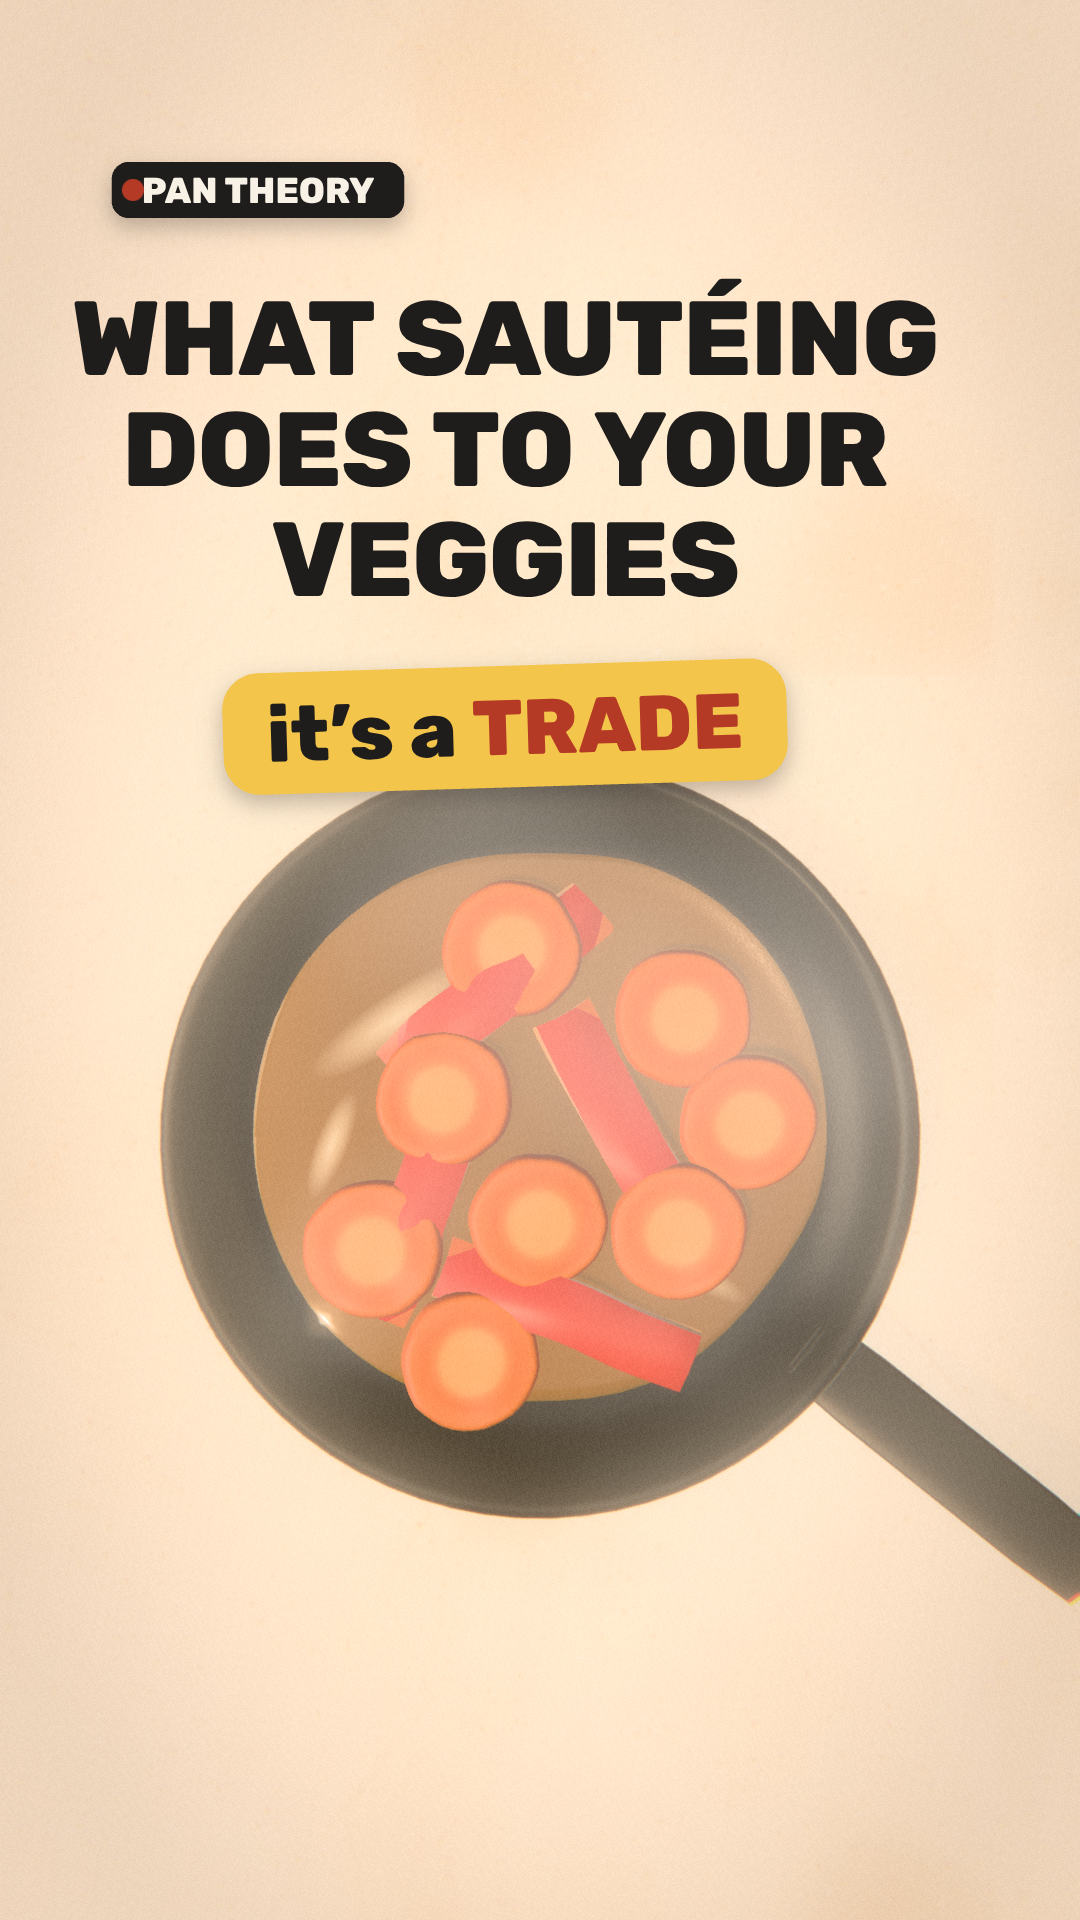
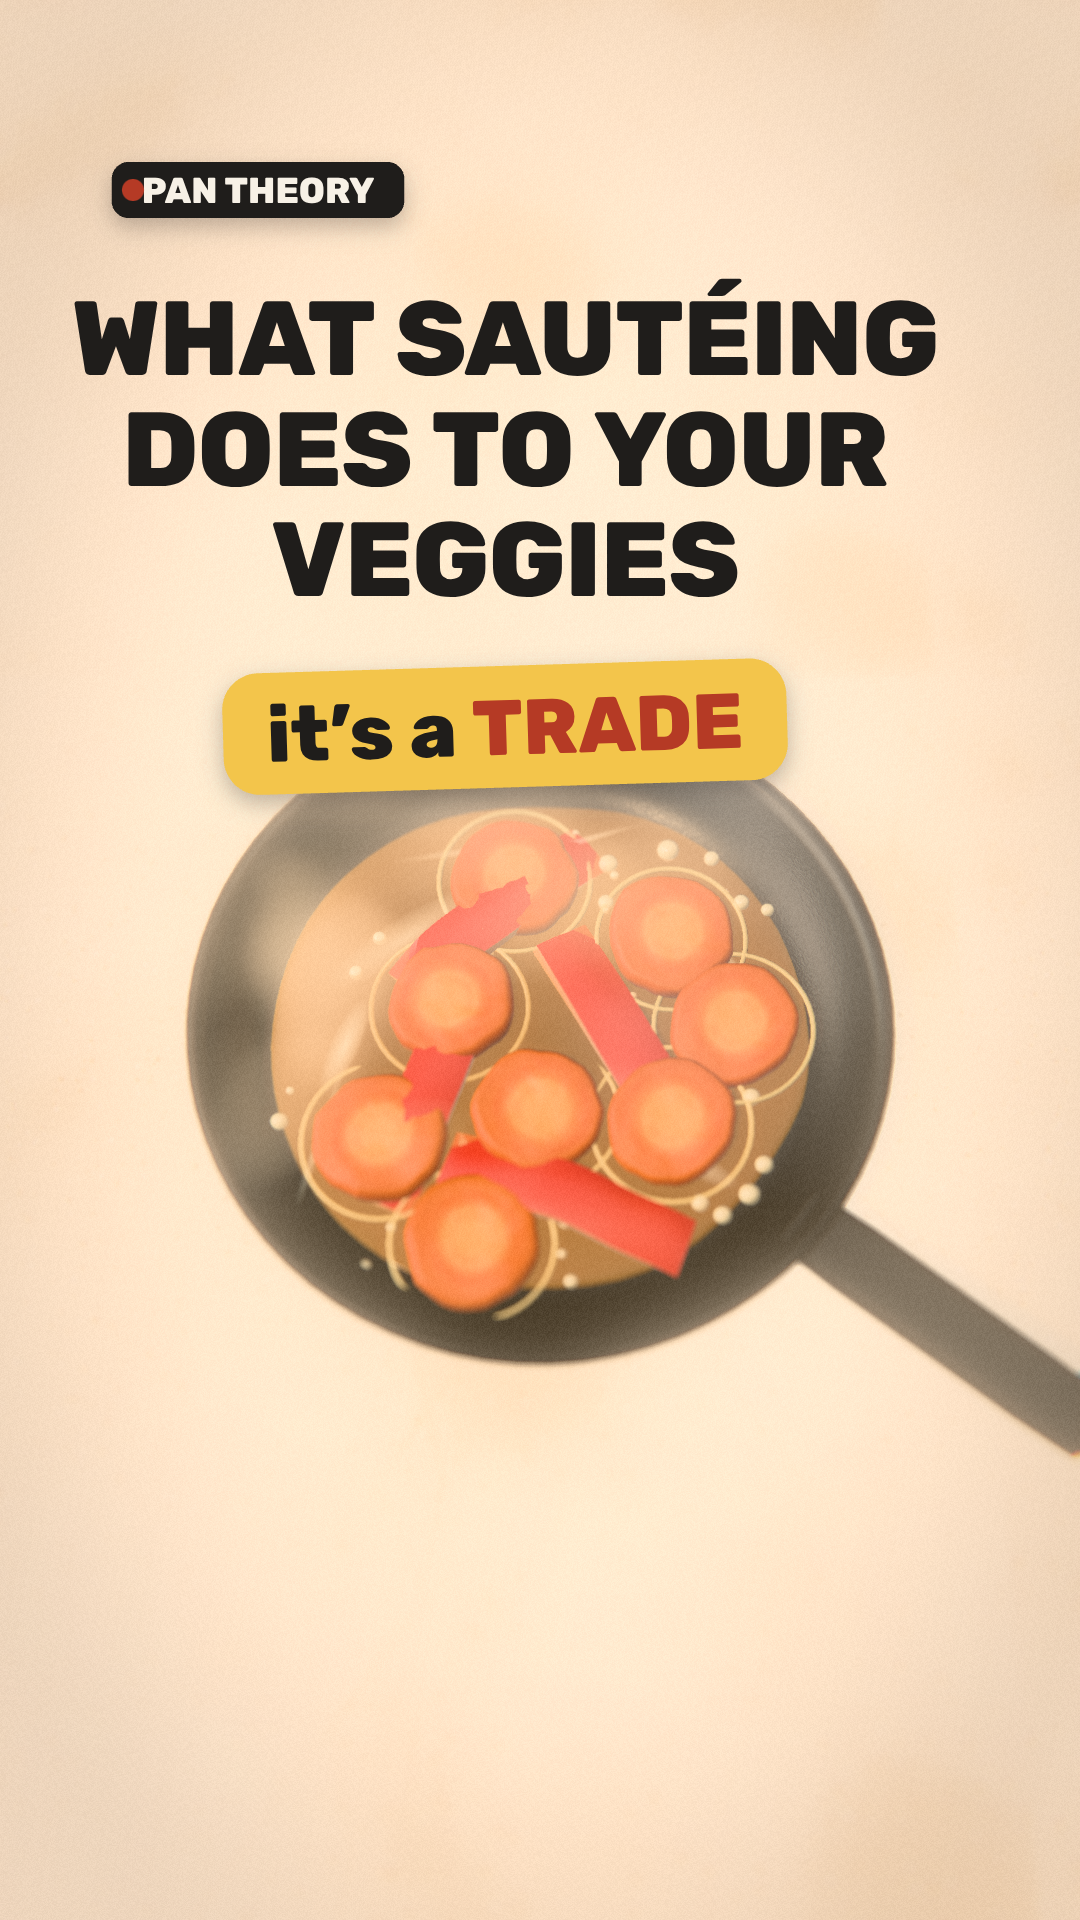
Pan Theory ep01: richer food (coin rings/fibre/caramel, oil film rings + bubbles, seasoned cast iron, tilted hook/cover camera)
Claude-Session: https://claude.ai/code/session_01NX6jW17pPmMZCgXgFXca4U

Changed region(s): [[0.1222, 0.4062, 1.0, 0.8438]]

diff --git a/channels/pan-theory/ep01-sauteing-veggies/scene.js b/channels/pan-theory/ep01-sauteing-veggies/scene.js
@@ -56,6 +56,10 @@ const FL = .095;
 const panCoins = [[-.42, -.15], [.62, -.5], [.6, .42], [-.72, .5], [.0, .38], [-.12, -.8], [.9, -.05], [-.3, .98]].map((p, i) => { const o = mesh(coinGeos[i % 4], i ? coinMat : coinMat, GK, p[0], FL + .085 + (i ? .0 : .0), p[1], (hash(i) - .5) * .18, hash(i * 3) * 6.28, (hash(i * 5) - .5) * .18); o.userData.rest = o.position.clone(); return o; });
 panCoins[0].position.y += .0; panCoins[0].userData.rest.copy(panCoins[0].position);
 const panStrips = [[.38, -.02, .5], [-.5, .28, -.4], [.12, .78, 1.2], [-.2, -.62, 2.3]].map((p, i) => { const o = mesh(stripGeos[i], stripMat, GK, p[0], FL + .1, p[1], 0, p[2], 0); o.userData.rest = o.position.clone(); return o; });
+const ringMat = new THREE.MeshPhysicalMaterial({ color: "#FFE3A0", roughness: .04, metalness: 0, transparent: true, opacity: 0, clearcoat: 1, envMapIntensity: 3 }), bubGeo = new THREE.SphereGeometry(.03, 12, 8), bubMat = new THREE.MeshPhysicalMaterial({ color: "#FFF3D0", roughness: .03, transparent: true, opacity: .0, clearcoat: 1, envMapIntensity: 3.5 });
+const filmAll = [], bubs = [];
+panCoins.forEach((c, i) => { const r = new THREE.Mesh(new THREE.TorusGeometry(.35, .012, 8, 44), ringMat); r.rotation.x = PI / 2; r.position.set(c.position.x, FL + .05, c.position.z); r.scale.set(1 + .06 * hash(i), 1 + .06 * hash(i * 3), 1); GK.add(r); filmAll.push(r);
+  for (let k = 0; k < 6; k++) { const a = hash(i * 7 + k) * 6.28, rad = .38 + .12 * hash(i + k * 3), b = new THREE.Mesh(bubGeo, bubMat); b.position.set(c.position.x + Math.cos(a) * rad, FL + .03, c.position.z + Math.sin(a) * rad); b.userData.s = .5 + 1.1 * hash(i * 3 + k); b.scale.setScalar(b.userData.s); GK.add(b); filmAll.push(b); bubs.push(b); } });
 // piles at the hook
 const pileC = new THREE.Group(), pileP = new THREE.Group(); GK.add(pileC, pileP);
 for (let i = 0; i < 24; i++) { const a = hash(i * 2.3) * 6.28, r = Math.sqrt(hash(i * 1.7)) * .62; mesh(coinGeos[i % 4], coinMatRaw, pileC, Math.cos(a) * r, .075 + .2 * (1 - r / .62) * hash(i * 9) + (i % 3) * .02, Math.sin(a) * r, (hash(i * 4) - .5) * .7, hash(i) * 6.28, (hash(i * 6) - .5) * .7); }
@@ -75,8 +79,9 @@ const ribbonCount = ribbon.geometry.index.count;
 // steam + heat (transparent, kept out of the depth pass)
 const Gfx = new THREE.Group(); GK.add(Gfx); noDepth.push(Gfx);
 const steam = []; for (let i = 0; i < 34; i++) { const q = quad(puffTex, "#FFF8EC", false, 0); q.rotation.x = -PI / 2; Gfx.add(q); steam.push(q); }
+const wisps = []; for (let i = 0; i < 14; i++) { const q = quad(puffTex, "#FFE2B8", true, 0); q.rotation.x = -PI / 2; Gfx.add(q); wisps.push(q); }
 const heatQ = []; for (let i = 0; i < 7; i++) { const q = quad(softTex, "#C4381E", true, 0); q.rotation.x = -PI / 2; Gfx.add(q); heatQ.push(q); }
-const gleams = [[-.62, -.5, .9, .22, .6], [-.9, .05, .5, .14, 1.2], [.7, .62, .45, .12, -.5]].map(g => { const q = quad(softTex, "#FFF1CC", true, 0); q.rotation.x = -PI / 2; q.rotation.z = g[4]; q.scale.set(g[2], g[3], 1); q.position.set(g[0], .17, g[1]); Gfx.add(q); return q; });
+const gleams = [[-.62, -.5, .9, .22, .6], [-.9, .05, .5, .14, 1.2], [.7, .62, .45, .12, -.5], [-.3, -.95, .8, .05, .15], [.2, -1.0, .6, .04, .3], [-1.0, .5, .7, .05, 1.3], [.95, -.3, .5, .05, -.9]].map(g => { const q = quad(softTex, "#FFF1CC", true, 0); q.rotation.x = -PI / 2; q.rotation.z = g[4]; q.scale.set(g[2], g[3], 1); q.position.set(g[0], .17, g[1]); Gfx.add(q); return q; });
 const glowRight = quad(softTex, "#E0451F", true, 0); glowRight.rotation.x = -PI / 2; glowRight.scale.set(3.4, 3.4, 1); glowRight.position.set(.9, .5, 0); Gfx.add(glowRight);
 // board with raw peppers, broccoli, tomato halves
 const board = new THREE.Group(); board.position.set(X_BOARD, 0, 0); GK.add(board);
@@ -175,8 +180,9 @@ function setCam(p, l, f, fp, ap, up) { camera.up.set(...(up || [0, 1, 0])); came
   bokeh.uniforms.focus.value = camera.position.distanceTo(V(...fp)); bokeh.uniforms.aperture.value = ap; bokeh.uniforms.maxblur.value = .014; }
 // overhead camera keys: [t, x, z0 (look z), h]; height interpolated in log space, eased
 const HERO = [-.42, -.15];
+const tiltAt = t => t < S("b02") - .05 ? .38 : t < E("b02") - .3 ? .38 * (1 - smooth((t - S("b02") + .05) / (E("b02") - S("b02") - .25))) : t < S("b13") - 1 ? 0 : t < S("b13") ? 0 : .3 * smooth((t - S("b13")) / 1.2);
 const camKeys = [
-  [0, 0, .16, 11.5], [S("b02") - .05, 0, .16, 11.5], [E("b02") - .3, 0, .55, 8.6],
+  [0, 0, .05, 10.4], [S("b02") - .05, 0, .05, 10.4], [E("b02") - .3, 0, .55, 8.6],
   [T.diveFrom, 0, .55, 8.6], [T.dive1, HERO[0], HERO[1], .8],
   [S("b06"), HERO[0], HERO[1], .8], [S("b06") + 1.6, 0, .55, 8.6], [S("b07") - .9, 0, .55, 8.6], [S("b07") + .5, 0, 1.19, 9.8], [E("b07") - .5, 0, 1.19, 9.8],
   [S("b08") + .15, 0, .5, 8.6], [S("b08") + 1.45, X_BOARD, .5, 8.6], [T.diveFrom2 = S("b09") - 1.7, X_BOARD, .5, 8.6], [T.dive2, X_BOARD - .8, -.6, .8],
@@ -215,7 +221,9 @@ function animKitchen(t, A) {
   steam.forEach((q, i) => { const per = 3.8 + hash(i) * 2, ph = (t / per + hash(i * 3)) % 1, bx = (hash(i * 5) - .5) * 2.3, bz = (hash(i * 7) - .5) * 2.0;
     const h = .35 + ph * 3.6; q.position.set(bx + Math.sin(t * .6 + i) * .3 * ph + ph * .4, h, bz - ph * .35 + Math.cos(t * .5 + i * 2) * .25 * ph); const s = .7 + ph * 1.9 * (.7 + hash(i * 9)); q.scale.set(s, s, 1); q.rotation.z = i + t * .1 * (i % 2 ? 1 : -1);
     q.material.opacity = .06 * sk * Math.sin(PI * ph) ** 1.2 * (.6 + .4 * hash(i * 13)); q.visible = q.material.opacity > .004; });
+  filmAll.forEach(o => (o.visible = oilU > .05)); ringMat.opacity = .55 * oilU; bubMat.opacity = .7 * oilU; bubs.forEach((b, i) => b.scale.setScalar(b.userData.s * (1 + .12 * Math.sin(t * 3 + i * 1.7))));
   gleams.forEach((q, i) => { q.material.opacity = .55 * oilU * (.8 + .2 * Math.sin(t * 1.3 + i * 2)); q.visible = oilU > .02 && pan.visible; });
+  wisps.forEach((q, i) => { const per = 3.2 + hash(i * 3) * 2.2, ph = (t / per + hash(i * 5)) % 1; q.position.set(-.9 + hash(i * 7) * 1.0 + Math.sin(t * .7 + i) * .25 * ph, .4 + ph * 3.0, (hash(i * 9) - .5) * 1.8 - ph * .3); const s2 = .5 + ph * 1.5; q.scale.set(s2 * .7, s2, 1); q.rotation.z = i * 1.3 + ph; q.material.opacity = .16 * sk * Math.sin(PI * ph); q.visible = q.material.opacity > .004; });
   // heat shimmer on the right half (b02)
   const hk = smooth(clamp((t - T.tHeat + .3) / .8)) * (1 - smooth(clamp((t - E("b02") - .4) / .8))), hk2 = hk;
   glowRight.material.opacity = .34 * hk2 * (.85 + .15 * Math.sin(t * 6)); glowRight.visible = hk2 > .01;
@@ -301,7 +309,7 @@ function stage(t, A) {
     pan.visible = !(inTrio || inCmp || inBal) || false; pileC.visible = pileP.visible = t < S("b04") + 1; panCoins.forEach(o => (o.visible = pan.visible)); panStrips.forEach(o => (o.visible = pan.visible)); oil.visible = pan.visible && oil.visible; ribbon.visible = ribbon.visible && pan.visible;
     steam.forEach(q => (q.visible = pan.visible && q.visible)); heatQ.forEach(q => (q.visible = pan.visible && q.visible)); glowRight.visible = glowRight.visible && pan.visible;
     animKitchen(t, A); animBalance(t);
-    pan.visible = !(inTrio || inCmp || inBal); panCoins.forEach(o => (o.visible = pan.visible)); panStrips.forEach(o => (o.visible = pan.visible));
+    pan.visible = !(inTrio || inCmp || inBal); filmAll.forEach(o => (o.visible = o.visible && pan.visible)); panCoins.forEach(o => (o.visible = pan.visible)); panStrips.forEach(o => (o.visible = pan.visible));
     dropIns.forEach(o => { if (!pan.visible) o.visible = false; });
     pan.userData; const G = (g, v) => (g.visible = v); G(trio, inTrio); G(cmp, inCmp); G(bal, inBal); G(board, t >= S("b08") - .5 && t < S("b10")); tileC.visible = tileC.visible && (t >= S("b08") - .5 && t < S("b10"));
     ["vA", "vD", "vE", "vK"].forEach(k => (tiles[k].visible = tiles[k].visible && !(inTrio || inCmp || inBal) && t < S("b08") + 1.2));
@@ -311,7 +319,7 @@ function stage(t, A) {
     const f = 40, fa = inBal ? .0 : 0;
     // light follows the camera
     key.position.set(px - 5.5, 10.5, (cz || 0) + 3.5); key.target.position.set(px, 0, cz); key.target.updateMatrixWorld();
-    setCam([cx + Math.sin(t * .3) * .02, h, cz + Math.cos(t * .27) * .015], [cx, 0, cz], h < 2 ? 50 : f, [cx, h < 2 ? .15 : .12, cz], h < 2 ? .012 : .0085, [0, 0, -1]);
+    const tl_ = tiltAt(t); setCam([cx + Math.sin(t * .3) * .02, h, cz + Math.cos(t * .27) * .015 + tl_ * h], [cx, 0, cz], h < 2 ? 50 : f, [cx, h < 2 ? .15 : .12, cz], h < 2 ? .012 : .0085 + .006 * tl_ / .38, [0, 0, -1]);
     bloom.strength = .2; bloom.radius = .5; bloom.threshold = 1.1; A.proj = projector(); A.cam = { cx, cz, h };
   } else {
     bloom.strength = .6; bloom.radius = .7; bloom.threshold = .8;
@@ -326,7 +334,7 @@ window.__seek = function (t) {
     const tt = T.tOil + 6; show("K"); trio.visible = bal.visible = cmp.visible = false; board.visible = false; tileC.visible = false; pileC.visible = pileP.visible = false;
     animKitchen(tt, A); Object.values(tiles).forEach(g => (g.visible = false));
     key.position.set(-4.5, 10.5, 4); key.target.position.set(0, 0, -.75); key.target.updateMatrixWorld();
-    setCam([0, 9.4, -.75], [0, 0, -.75], 40, [0, .12, -.75], .0085, [0, 0, -1]); bloom.strength = .25; filmPass.uniforms.time.value = .5; composer.render(); ov.drawCover(); return;
+    setCam([0, 9.4, -.45 + 9.4 * .42], [0, 0, -.45], 40, [0, .12, -.45], .014, [0, 0, -1]); bloom.strength = .25; filmPass.uniforms.time.value = .5; composer.render(); ov.drawCover(); return;
   }
   stage(t, A);
   filmPass.uniforms.time.value = (t * 30 | 0) * .017;

diff --git a/engine/film/kitchen.js b/engine/film/kitchen.js
@@ -36,12 +36,16 @@ export function makeCoin(seed = 0, R = .3, T = .07) { // carrot coin: lathe, wob
   for (let a = 0; a <= 8; a++) { const th = a / 8 * Math.PI; pts.push(new THREE.Vector2((.26 + .04 * Math.sin(th)) * k, -T * Math.cos(th))); }
   [.22, .19, .16, .13, .10, .07, .04, 0].forEach(r => pts.push(new THREE.Vector2(r * k, T)));
   const g = new THREE.LatheGeometry(pts, 40);
-  mapVerts(g, (x, y, z) => { const r = Math.hypot(x, z), an = Math.atan2(z, x), w = 1 + .05 * vn(Math.cos(an) * 1.6 + seed * 7, Math.sin(an) * 1.6, seed * 3.1) + .02 * vn(Math.cos(an) * 4 + seed, Math.sin(an) * 4, 2.2);
-    return [x * w, y + (y > 0 ? .02 : .008) * vn(x * 5 + seed, 1.3, z * 5) - (y > 0 ? .012 * (1 - Math.min(1, r / R) ** 2) : 0), z * w]; });
+  mapVerts(g, (x, y, z) => { const r = Math.hypot(x, z), an = Math.atan2(z, x), w = 1 + .08 * vn(Math.cos(an) * 1.6 + seed * 7, Math.sin(an) * 1.6, seed * 3.1) + .035 * vn(Math.cos(an) * 4 + seed, Math.sin(an) * 4, 2.2) + .012 * vn(Math.cos(an) * 11 + seed, Math.sin(an) * 11, 5.5);
+    return [x * w, y + (y > 0 ? .03 : .01) * vn(x * 5 + seed, 1.3, z * 5) + (y > 0 ? .008 * vn(x * 22, 2.1, z * 22) : 0) - (y > 0 ? .012 * (1 - Math.min(1, r / R) ** 2) : 0), z * w]; });
   g.computeVertexNormals();
   const cx = C_("#F2892A"), core = C_("#F8B866"), ring = C_("#DB6A14"), edge = C_("#D96F1C");
+  const caramel = C_("#9A4D14"), dkb = C_("#6E3410");
   colorize(g, (c, x, y, z, nx, ny) => { const r = Math.hypot(x, z) / k, an = Math.atan2(z, x);
-    if (ny < .55 || y < 0) c.copy(edge); else { c.copy(cx); const streak = .5 + .5 * vn(an * 3 + seed, r * 12, 1.7); c.lerp(core, smooth((.17 - r) / .05) * .95); c.lerp(ring, Math.exp(-Math.pow((r - .205) / .018, 2)) * .85); c.multiplyScalar(.94 + .06 * streak); } });
+    if (ny < .55 || y < 0) { c.copy(edge).lerp(caramel, clamp(.55 - y / T * .55 + .15 * vn(an * 5, 1, seed))); if (y < -T * .5) c.lerp(dkb, .5); }
+    else { c.copy(cx); const fibre = vn(an * 16 + seed, r * 4, 1.7), streak = .5 + .5 * vn(an * 3 + seed, r * 12, 1.7);
+      c.lerp(core, smooth((.17 - r) / .05) * .95); c.lerp(ring, Math.exp(-Math.pow((r - .205) / .016, 2)) * .9); c.lerp(ring, Math.exp(-Math.pow((r - .11) / .01, 2)) * .45); c.lerp(ring, Math.exp(-Math.pow((r - .255) / .02, 2)) * .5);
+      c.multiplyScalar(.9 + .1 * streak + .09 * fibre * smooth((r - .06) / .1)); c.lerp(caramel, smooth((r - .21) / .06) * .35 + .12 * (.5 + .5 * vn(x * 9, 4, z * 9))); } });
   return g;
 }
 export function makeStrip(seed = 0, L = 1.15, W = .27) { // bell-pepper strip: curved, lens cross-section, skin outside / pale flesh inside
@@ -106,7 +110,7 @@ export function makePan(R = 1.6, H = .44) { // cast-iron skillet, handle toward 
   const g = new THREE.LatheGeometry(pts, 72);
   const tex = (() => { const c = document.createElement("canvas"); c.width = c.height = 256; const x = c.getContext("2d"); x.fillStyle = "#808080"; x.fillRect(0, 0, 256, 256); const im = x.getImageData(0, 0, 256, 256);
     for (let i = 0; i < 256 * 256; i++) { const v = 128 + (hash(i * .37) - .5) * 70 + (hash(i * 1.7 + 4) - .5) * 40; im.data[i * 4] = im.data[i * 4 + 1] = im.data[i * 4 + 2] = v; } x.putImageData(im, 0, 0); const t = new THREE.CanvasTexture(c); t.wrapS = t.wrapT = THREE.RepeatWrapping; t.repeat.set(6, 3); return t; })();
-  const mat = new THREE.MeshStandardMaterial({ color: "#24211F", metalness: .7, roughness: .62, roughnessMap: tex, bumpMap: tex, bumpScale: .4 });
+  const mat = new THREE.MeshPhysicalMaterial({ color: "#24211F", metalness: .7, roughness: .6, roughnessMap: tex, bumpMap: tex, bumpScale: .9, clearcoat: .35, clearcoatRoughness: .42 });
   const body = new THREE.Mesh(g, mat); body.castShadow = body.receiveShadow = true;
   const hg = roundBox(.34, .13, 1.55, .05); xf(hg, [0, H * .72, R + .62], [-.06, 0, 0]);
   const handle = new THREE.Mesh(hg, mat); handle.castShadow = true;
